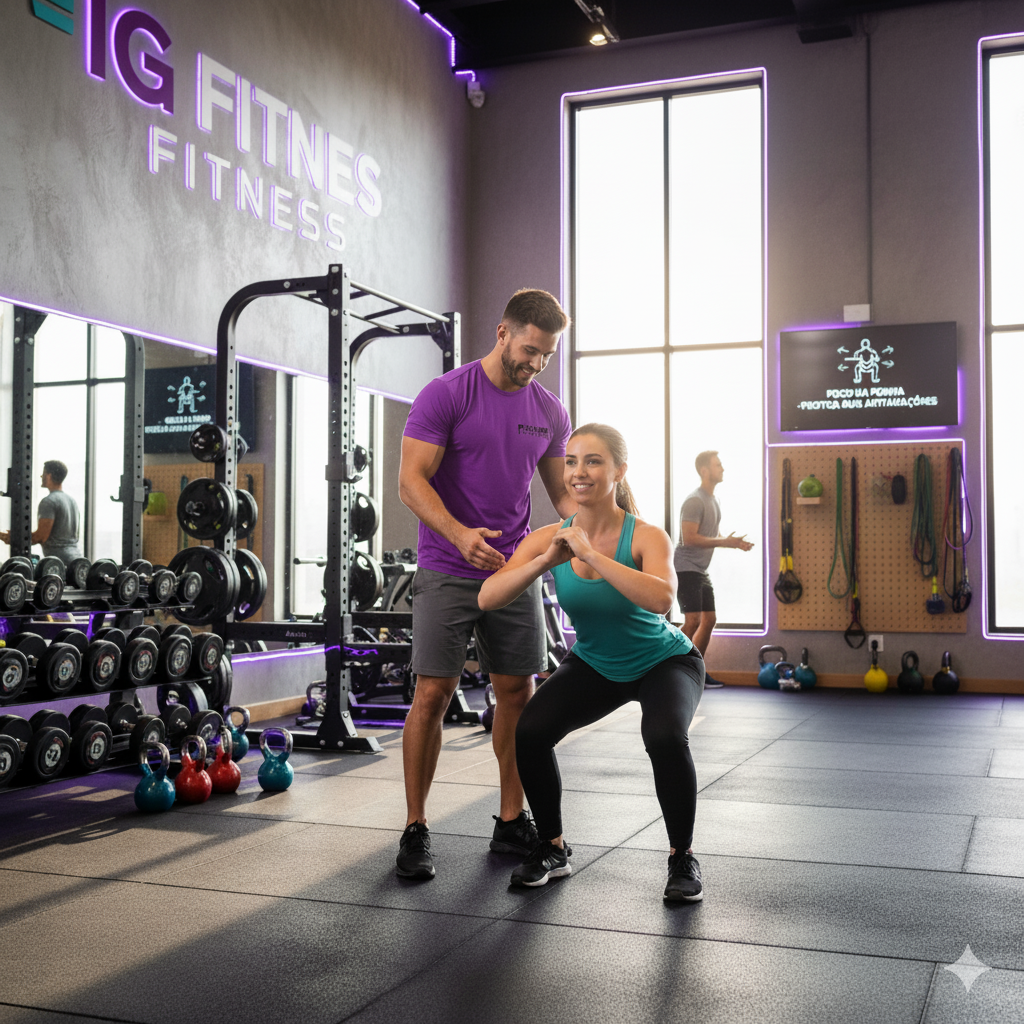
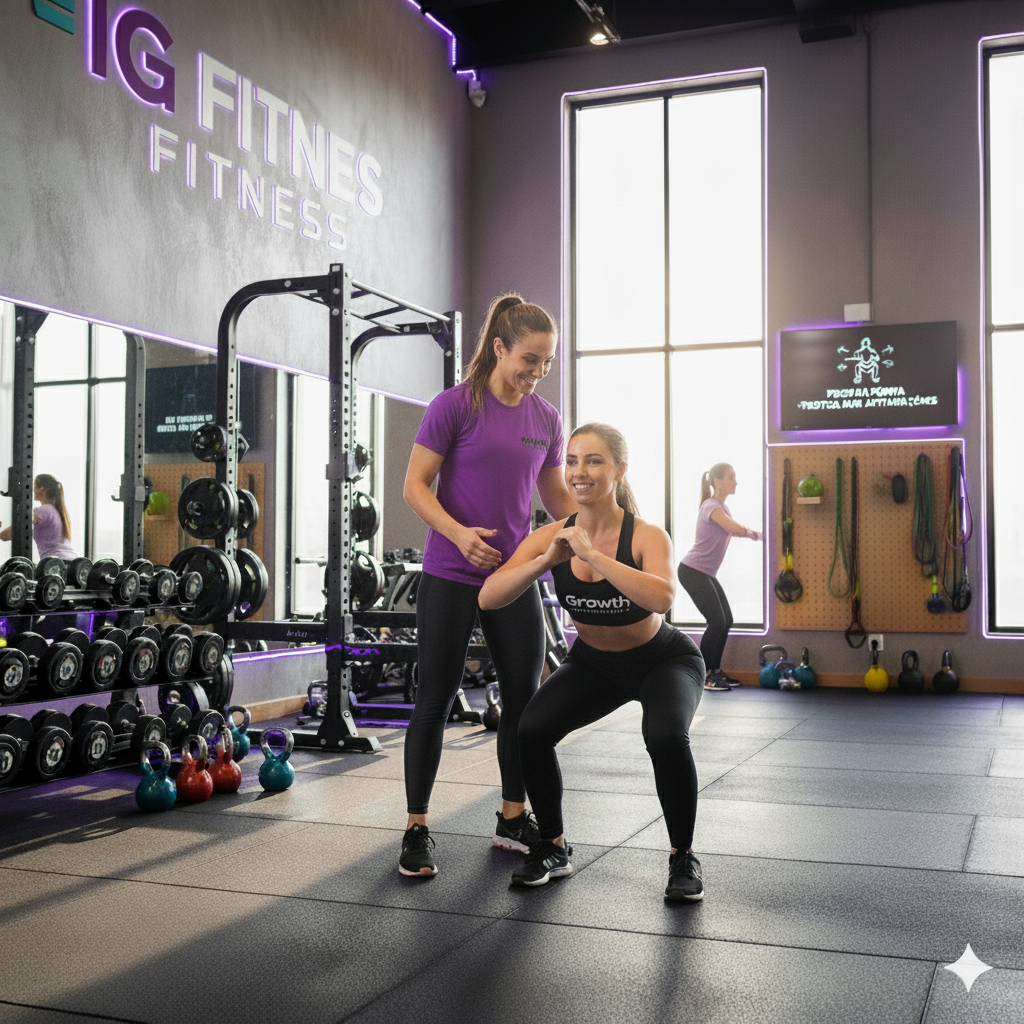
Update li

diff --git a/index.html b/index.html
@@ -142,20 +142,66 @@
         <div class="serviços-container">
 
             <!-- SERVIÇOS 1  -->
-            <div class="trabalhos-card">
-                <img src="img/serviços/personal.png" alt="Personal trainer profissional da IG Fitness, vestindo camiseta roxa, assiste e orienta uma aluna durante um agachamento. A academia moderna exibe o logo IG Fitness com detalhes e iluminação neon em roxo, destacando a oferta de acompanhamento personalizado." class="img-card">
+            <div class="serviços-card">
+                <img src="img/serviços/personal.png" alt= "Personal trainer profissional da IG Fitness, vestindo camiseta roxa, assiste e orienta uma aluna durante um agachamento. A academia moderna exibe o logo IG Fitness com detalhes e iluminação neon em roxo, destacando a oferta de acompanhamento personalizado por nossa equipe exclusivamente feminina."  class=" img-card">
 
                 <div class="card-body">
-                    <h3 class="crad-title">
+                    <h3 class="card-title">
                         Personal trainer 
                     </h3>
 
                     <p class="card-descricao">
-                       Personal Trainers IG Fitness: Treinos 100% personalizados para resultados rápidos e seguros.
+                       Na IG Fitness, nossa equipe de profissionais é exclusivamente feminina, oferecendo o melhor suporte e acompanhamento para você atingir todos os seus objetivos de treino.
                     </p>
+
+                    <ul class="card-list">
+                        <li class="card-item">
+                           <i class="bi bi-patch-check-fill"></i>
+                            Acompanhamento Personalizado
+                        </li>
+
+                        <li class="card-item">
+
+                        </li>
+
+                        <li class="card-item">
+
+                        </li>
+                    </ul>
                 </div>
             </div>
             <!-- fim SERVIÇOS 1 -->
+
+            <!-- serviços 2 -->
+            <div class="serviços-card">
+                <img src="img/serviços/saladedanca.img.png" alt= "Grupo de sete mulheres em uma aula de ginástica em uma academia moderna com iluminação neon roxa. As participantes estão uniformizadas com tops e calças pretas, realizando exercícios de agachamento em posição de espera ou movimento. O chão é de madeira clara, e há grandes espelhos refletindo a turma. Uma parede de tijolos ao fundo tem a frase 'DANCE. SWEAT. REPEAT.' em neon roxo. A cena transmite energia e foco no fitness feminino."  class=" img-card">
+
+                <div class="card-body">
+                    <h3 class="card-title">
+                        Aulas de Dança
+                    </h3>
+
+                    <p class="card-descricao">
+                       Nossas aulas de Dança, Zumba e Ritmos transformam o treino em festa.
+                     Venha queimar calorias, melhorar a coordenação e se conectar com nossa comunidade feminina. A música está esperando por você!
+                    </p>
+
+                    <ul class="card-list">
+                        <li class="card-item">
+                           
+                        
+                        </li>
+
+                        <li class="card-item">
+
+                        </li>
+
+                        <li class="card-item">
+
+                        </li>
+                    </ul>
+                </div>
+            </div>
 
 
         </div>
